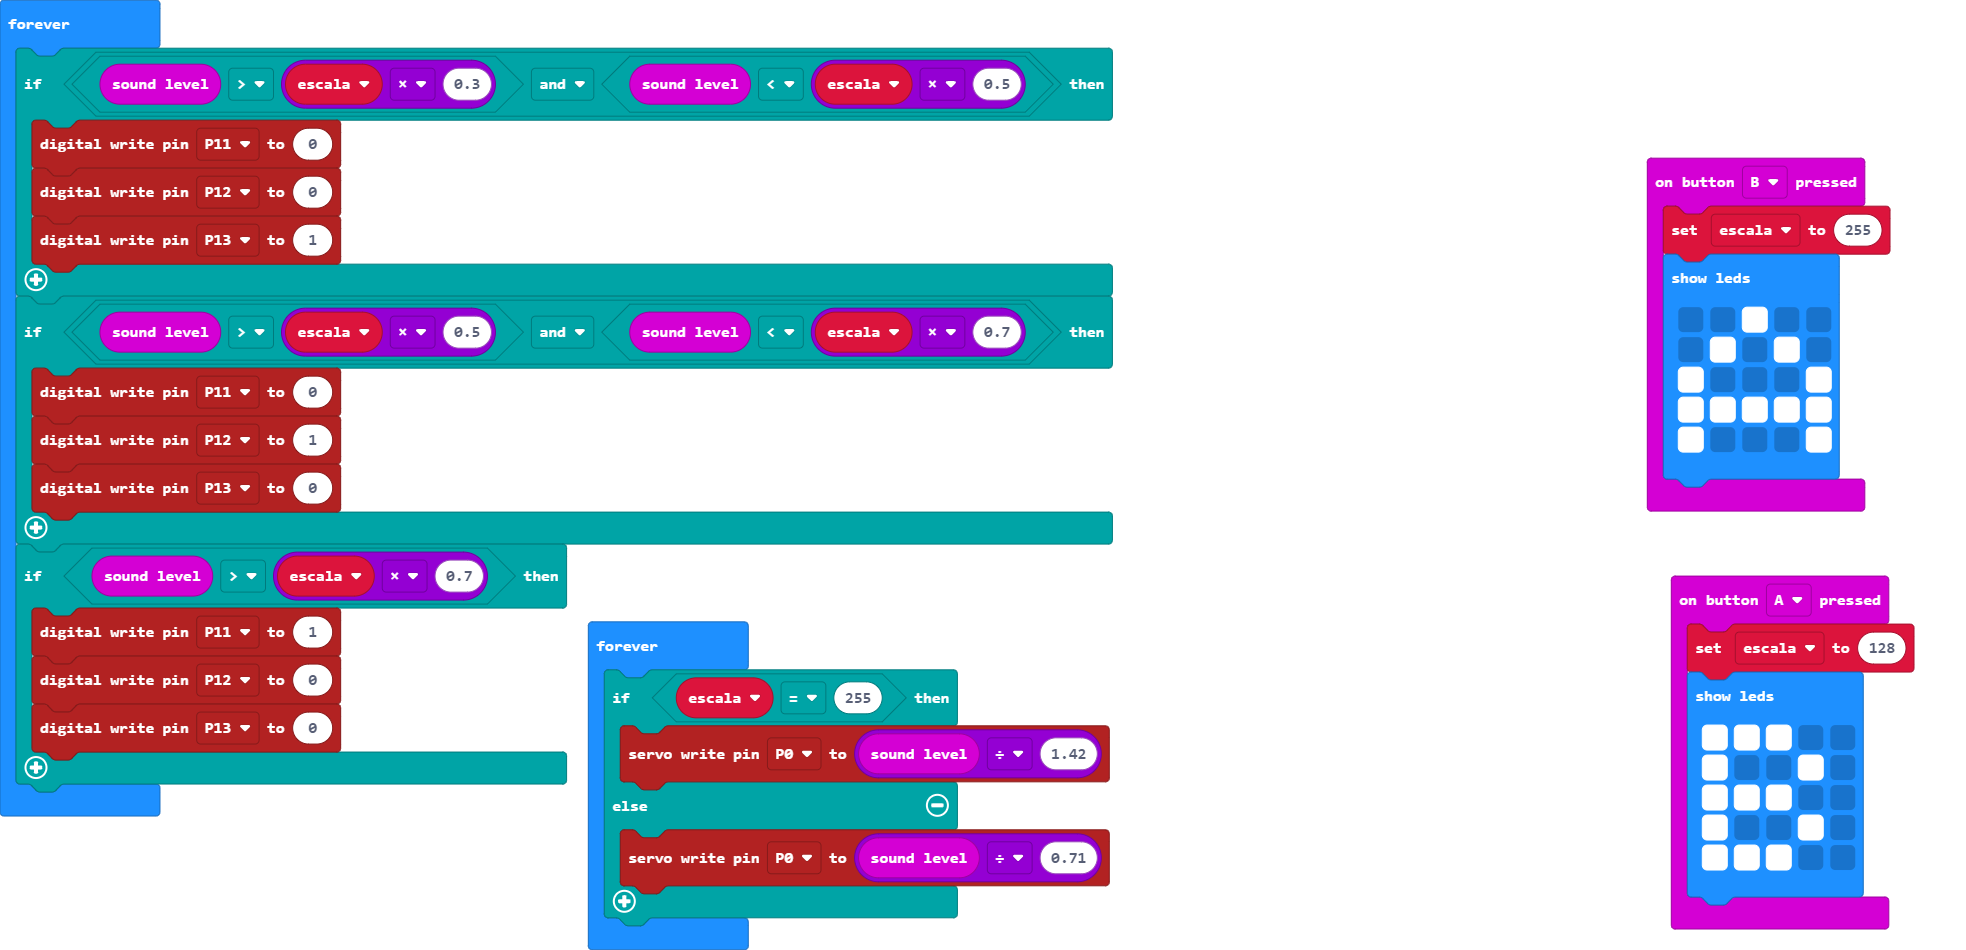
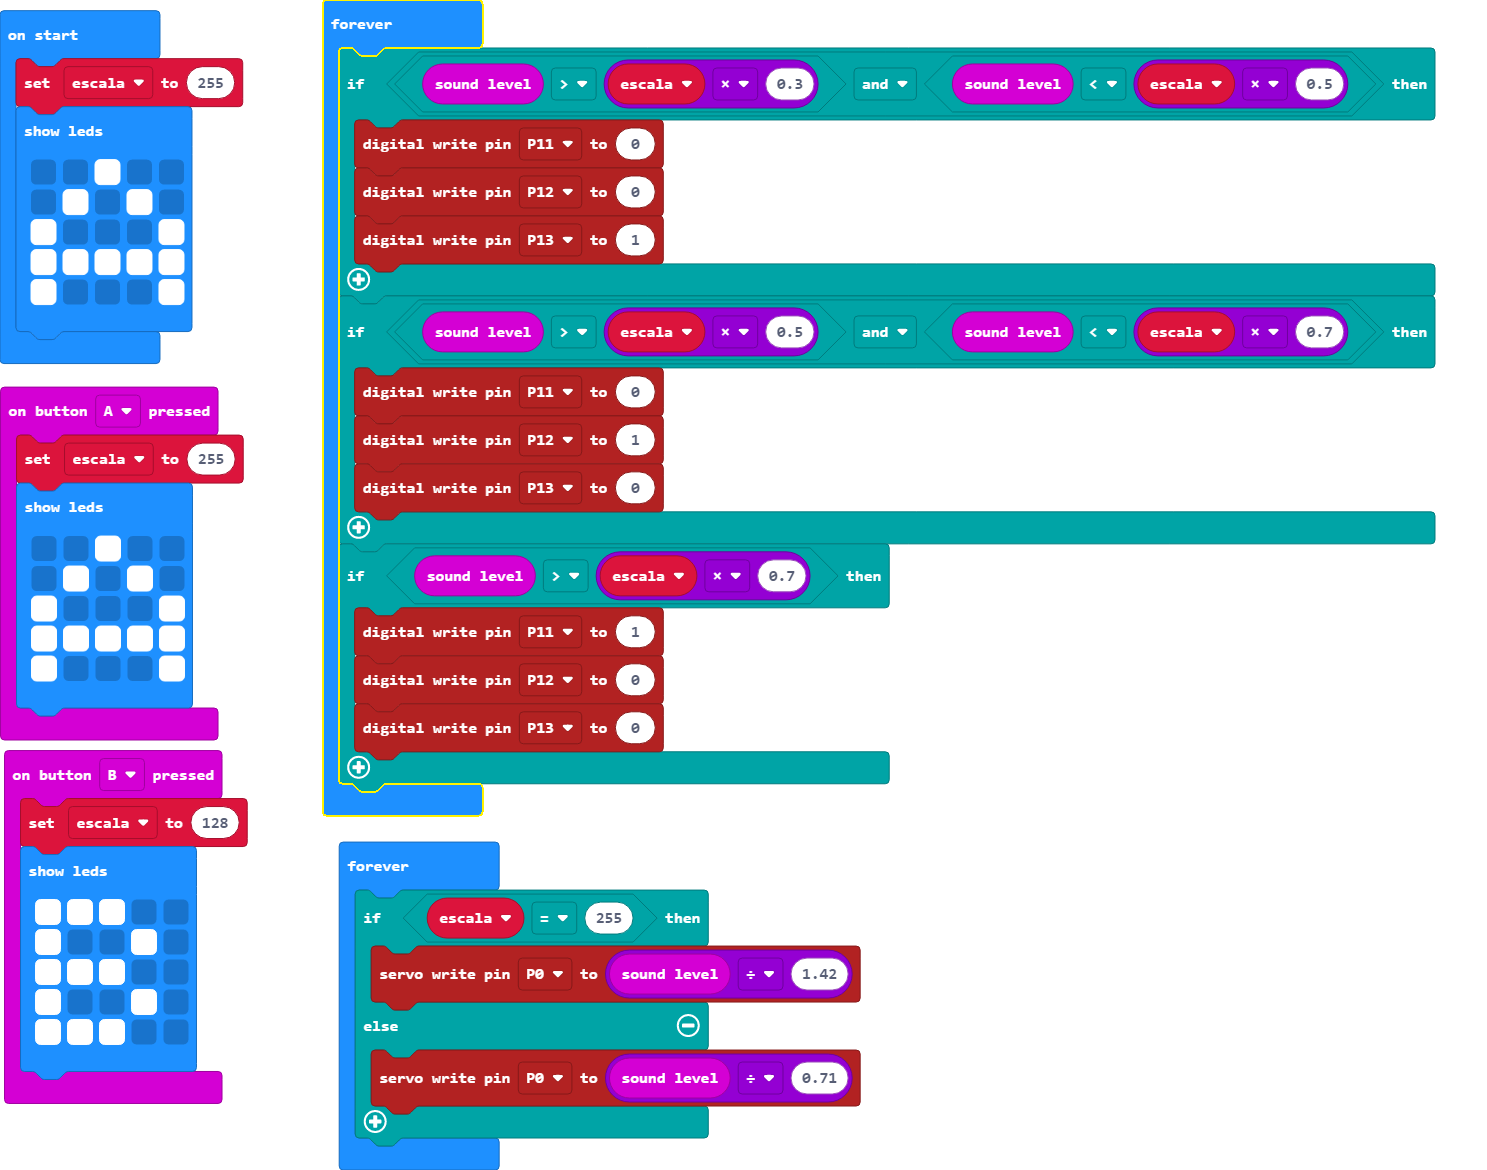
Update main.blocks, main.ts

diff --git a/main.ts b/main.ts
@@ -1,15 +1,4 @@
-let escala = 0
 input.onButtonPressed(Button.A, function () {
-    escala = 128
-    basic.showLeds(`
-        # # # . .
-        # . . # .
-        # # # . .
-        # . . # .
-        # # # . .
-        `)
-})
-input.onButtonPressed(Button.B, function () {
     escala = 255
     basic.showLeds(`
         . . # . .
@@ -19,6 +8,25 @@ input.onButtonPressed(Button.B, function () {
         # . . . #
         `)
 })
+input.onButtonPressed(Button.B, function () {
+    escala = 128
+    basic.showLeds(`
+        # # # . .
+        # . . # .
+        # # # . .
+        # . . # .
+        # # # . .
+        `)
+})
+let escala = 0
+escala = 255
+basic.showLeds(`
+    . . # . .
+    . # . # .
+    # . . . #
+    # # # # #
+    # . . . #
+    `)
 basic.forever(function () {
     if (input.soundLevel() > escala * 0.3 && input.soundLevel() < escala * 0.5) {
         pins.digitalWritePin(DigitalPin.P11, 0)
